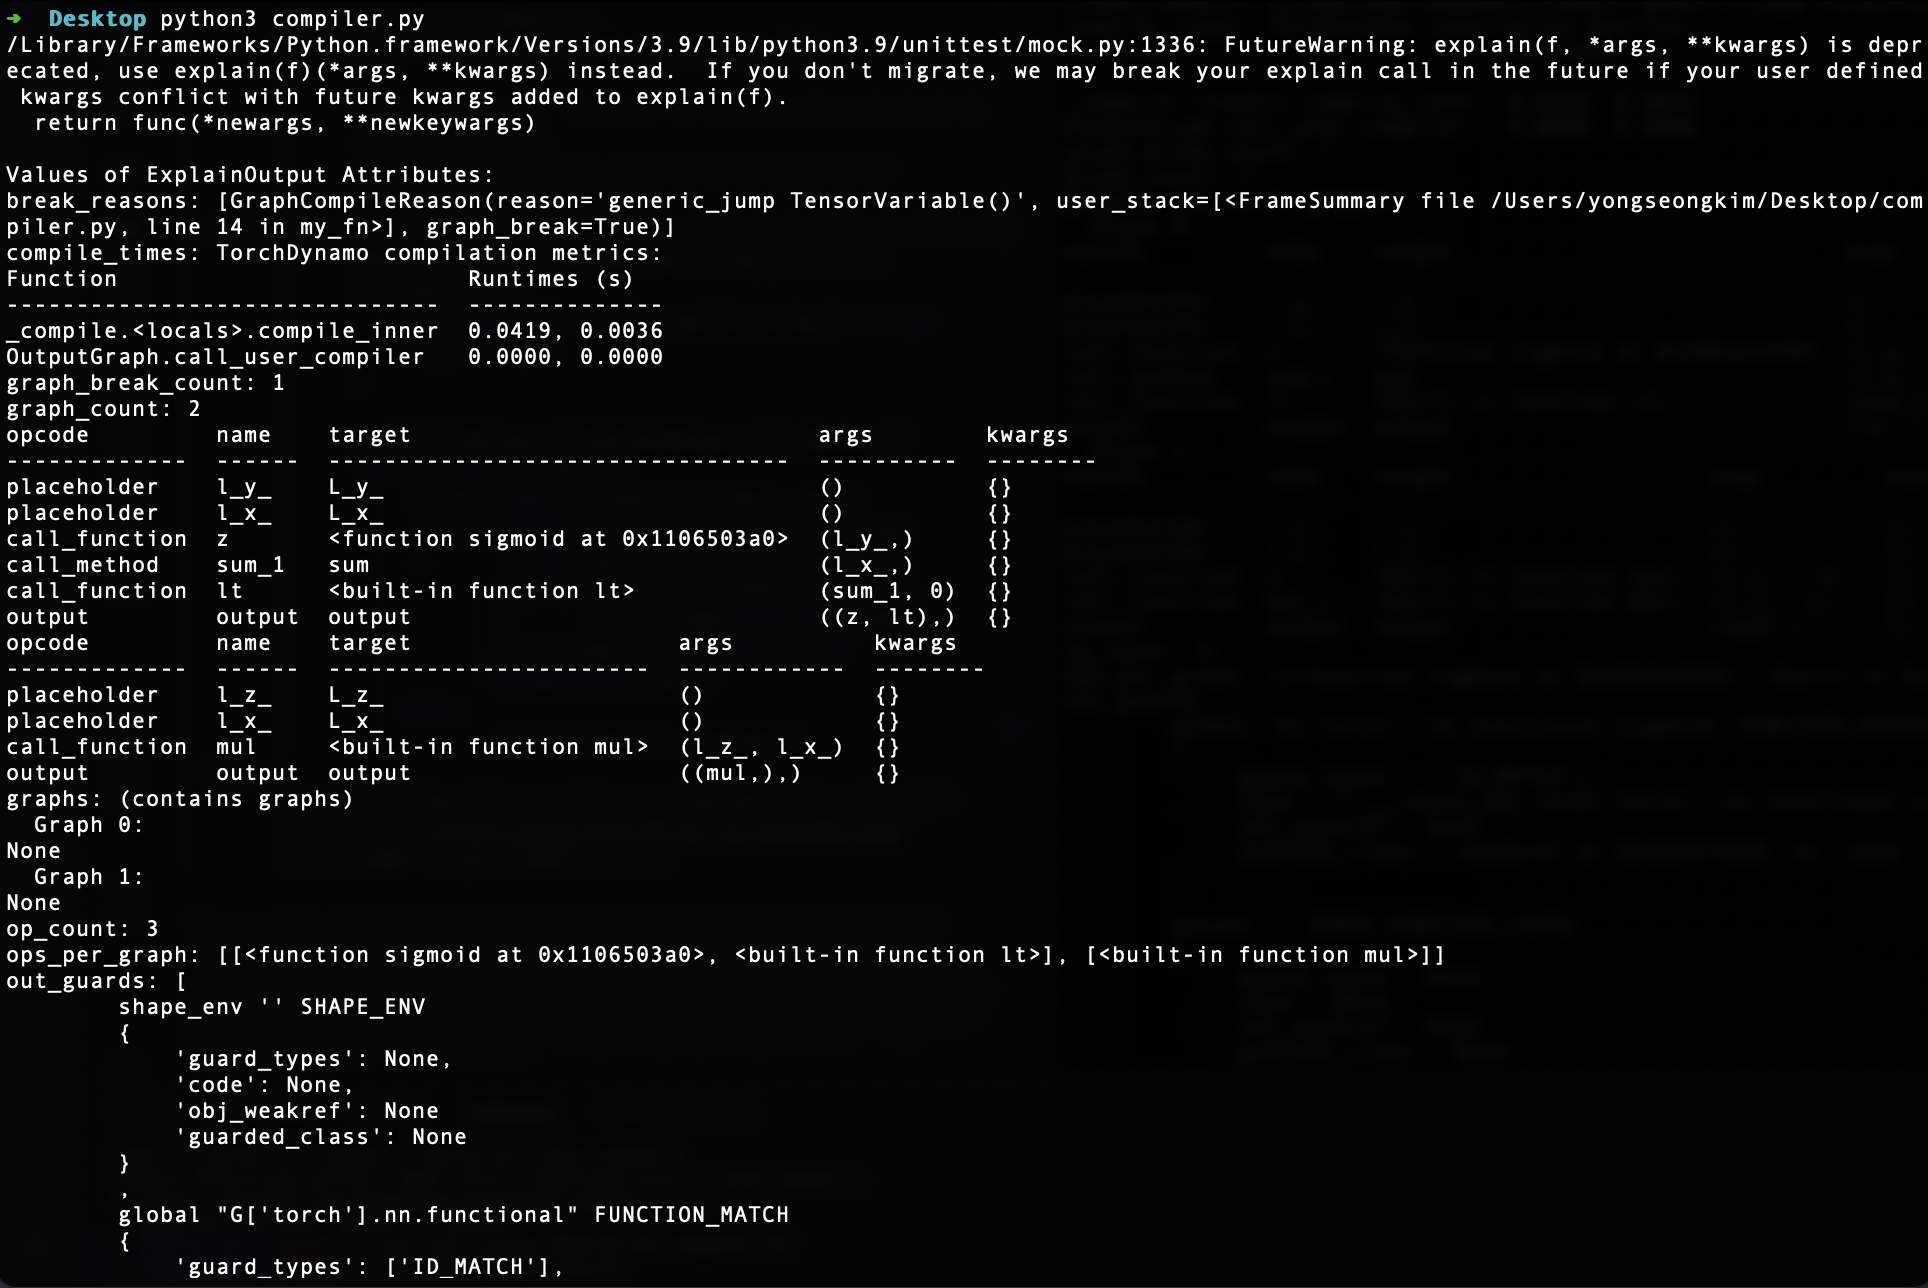
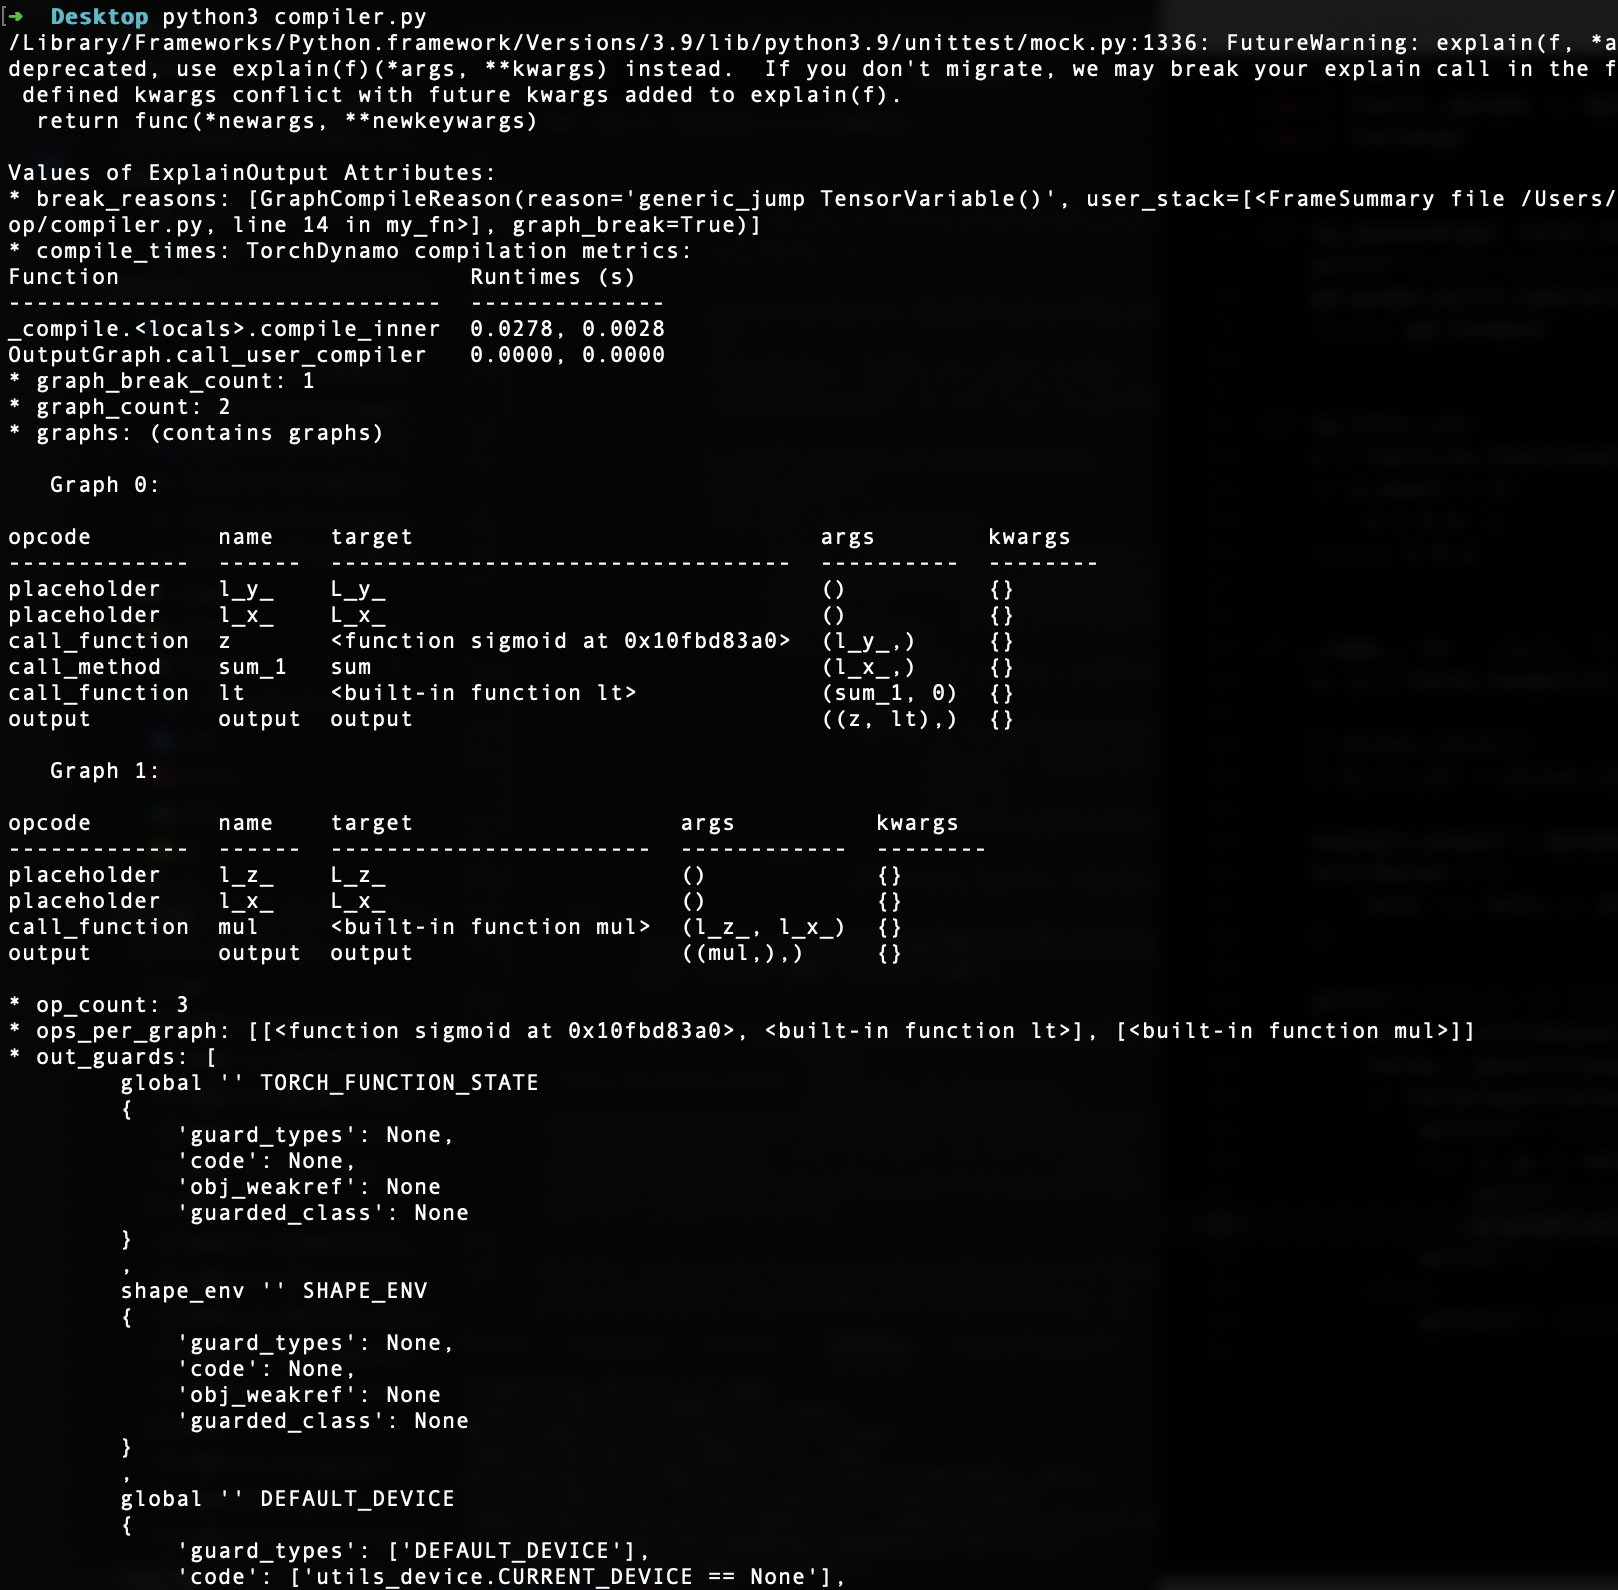
replace

diff --git a/_posts/2024-01-01-computer.md b/_posts/2024-01-01-computer.md
@@ -268,6 +268,7 @@ As the maximum performance gain comes from the minimal graph breaks, one can for
         import torch
         import torch._dynamo as dynamo
         
+
         def my_backend(gm: torch.fx.GraphModule, example_inputs: list[torch.Tensor]):
               print("Custom backend called with FX graph:")
               gm.graph.print_tabular()
@@ -280,26 +281,29 @@ As the maximum performance gain comes from the minimal graph breaks, one can for
                    x = x * -1
               return z * x
 
+
         if __name__ == '__main__':
               x, y = torch.randn(10), torch.randn(10)
         
-              # dynamo.reset()  # reset to use a custom backend (i.e. not Inductor).
-              # my_fn_opt = dynamo.optimize(custom_backend)(data_dependent_fn)(x, y)
+              # dynamo.reset() 
+              # my_fn_opt = dynamo.optimize(my_backend)(my_fn)(x, y)
         
               explain_output = dynamo.explain(my_fn, x, y)
-              attributes = [
-                   attr for attr in dir(explain_output) if not "__" in attr
-              ]
+              attributes = [attr for attr in dir(explain_output) if not "__" in attr]
 
               print("\nValues of ExplainOutput Attributes:")
               for attr in attributes:
                    value = getattr(explain_output, attr)
                    if isinstance(value, list) and len(value) >       0 and hasattr(value[0], "graph"):
-                          print(f"{attr}: (contains graphs)", *      [f"\n  Graph {i}:\n{g.graph.      print_tabular()}" for i, g in       enumerate(value)])
+                          print(f"* {attr}: (contains graphs)")
+                          for i, g in enumerate(value):
+                                print("\n", f"  Graph {i}: ", "\n")
+                                g.graph.print_tabular()
+                          print("")
                   else:
-                          print(f"{attr}: {value}")
+                          print(f"* {attr}: {value}")
 - res ... 
-        <div style="position: relative; display: inline-block;"> <img src="../assets/blog/2024-01-01-torchdynamo.png" width="500" height="340"> </div>
+        <img src="../assets/blog/2024-01-01-torchdynamo.png" width="500" height="340">
   
 <!-- - <img src="https://i0.wp.com/semianalysis.com/wp-content/uploads/2024/11/https3A2F2Fsubstack-post-media.s3.amazonaws.com2Fpublic2Fimages2F1d458fdc-ae3c-406c-9ca2-16f011b7081a_1058x736.jpg?ssl=1" width="500"> <a href="https://semianalysis.com/2023/01/16/nvidiaopenaitritonpytorch/" target="_blank">[src]</a>  -->
 
